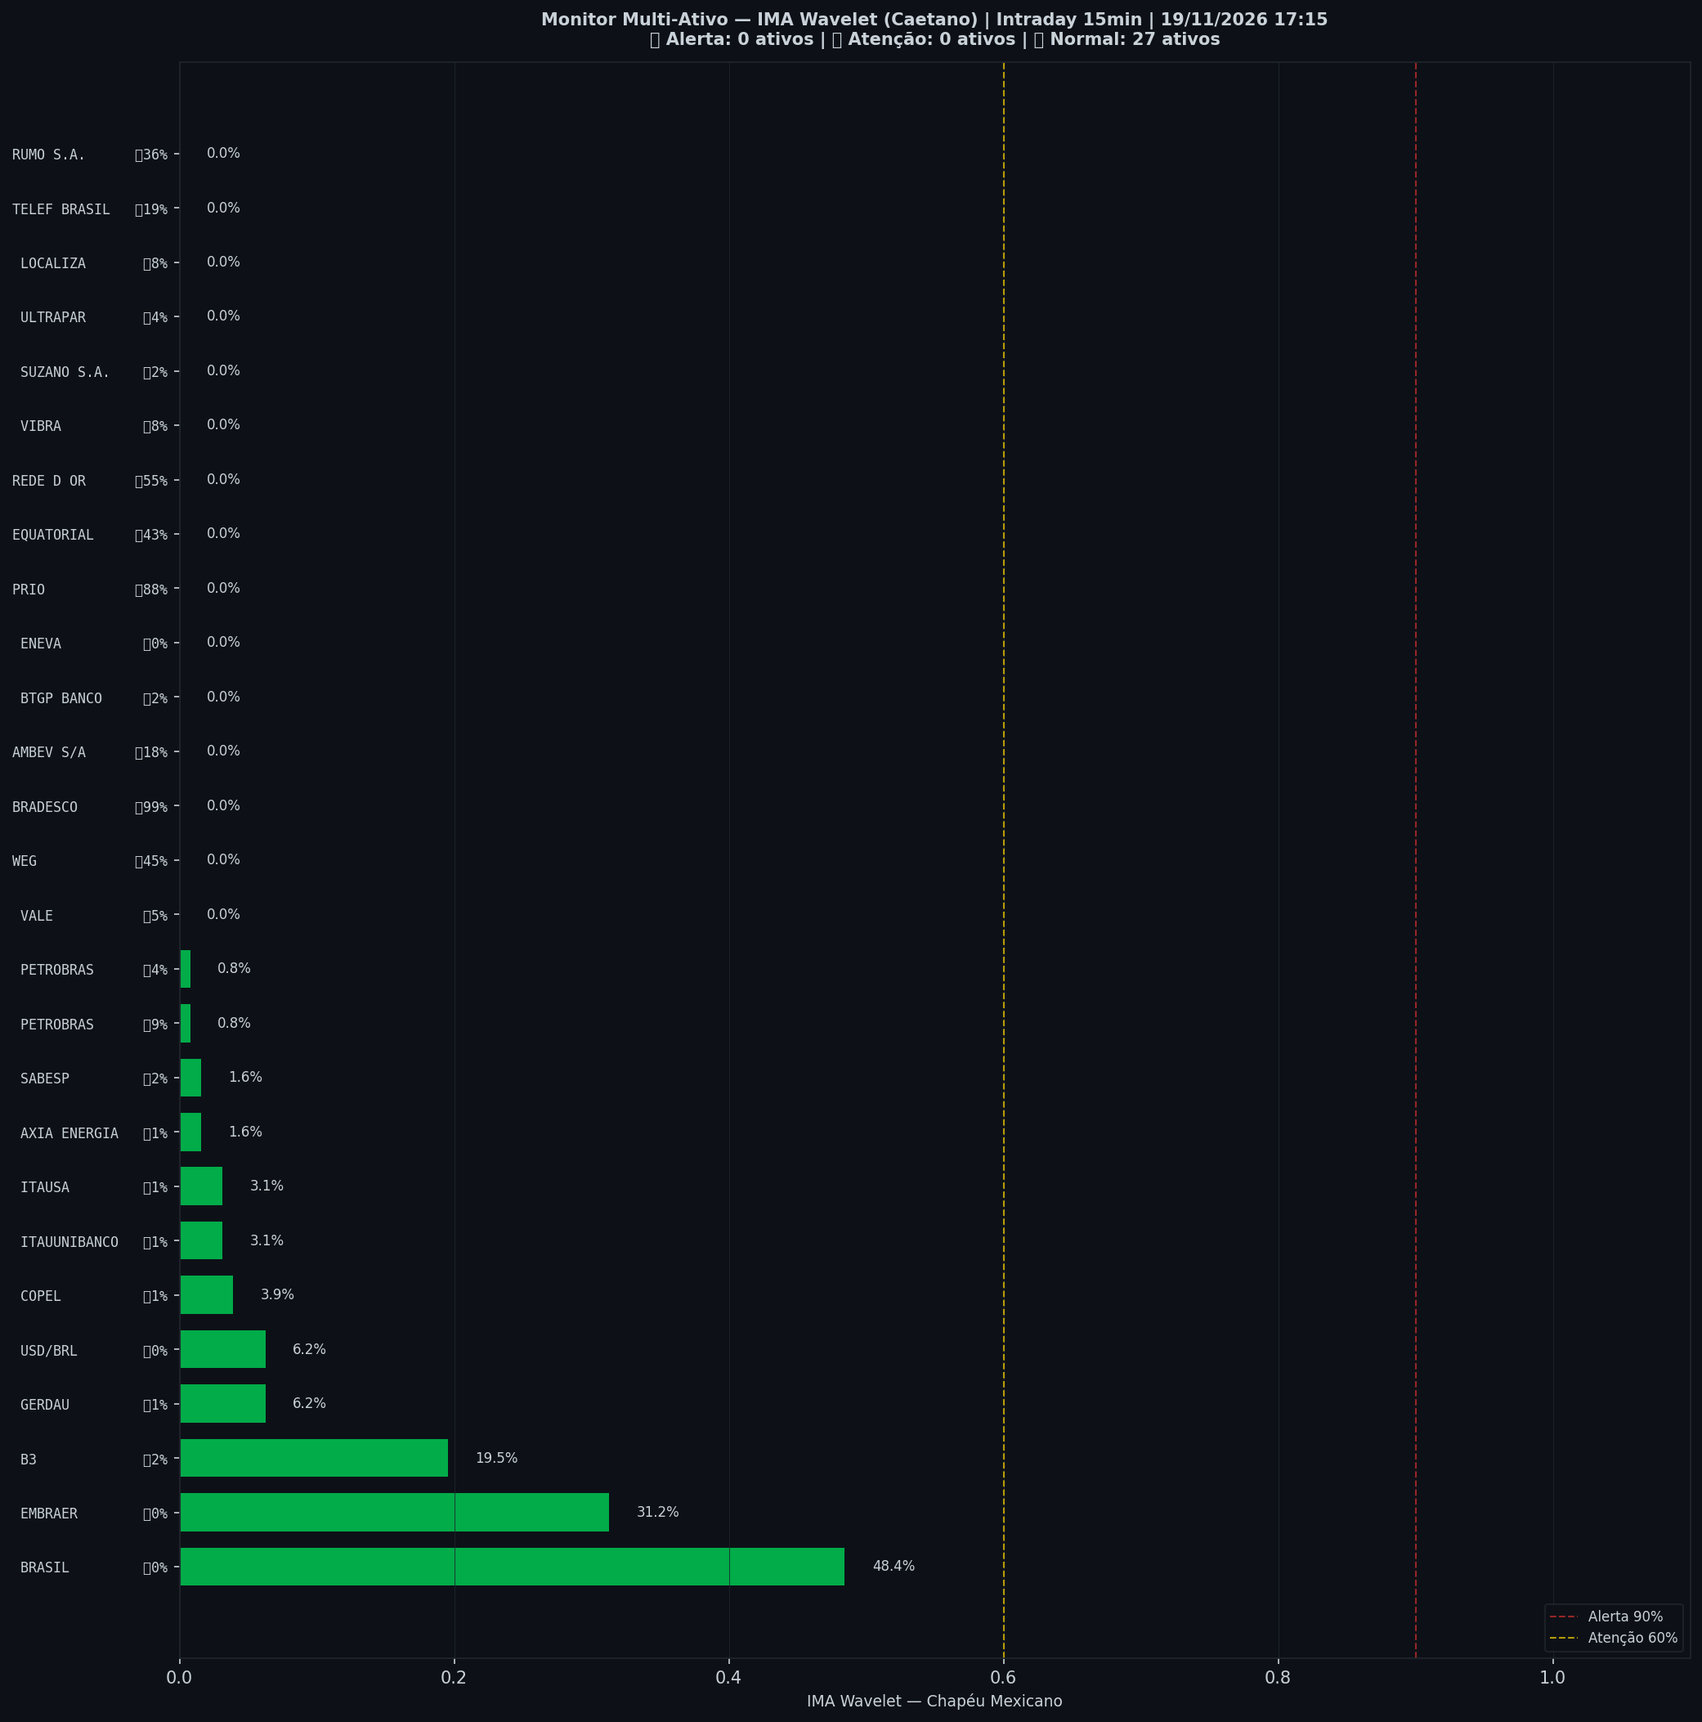
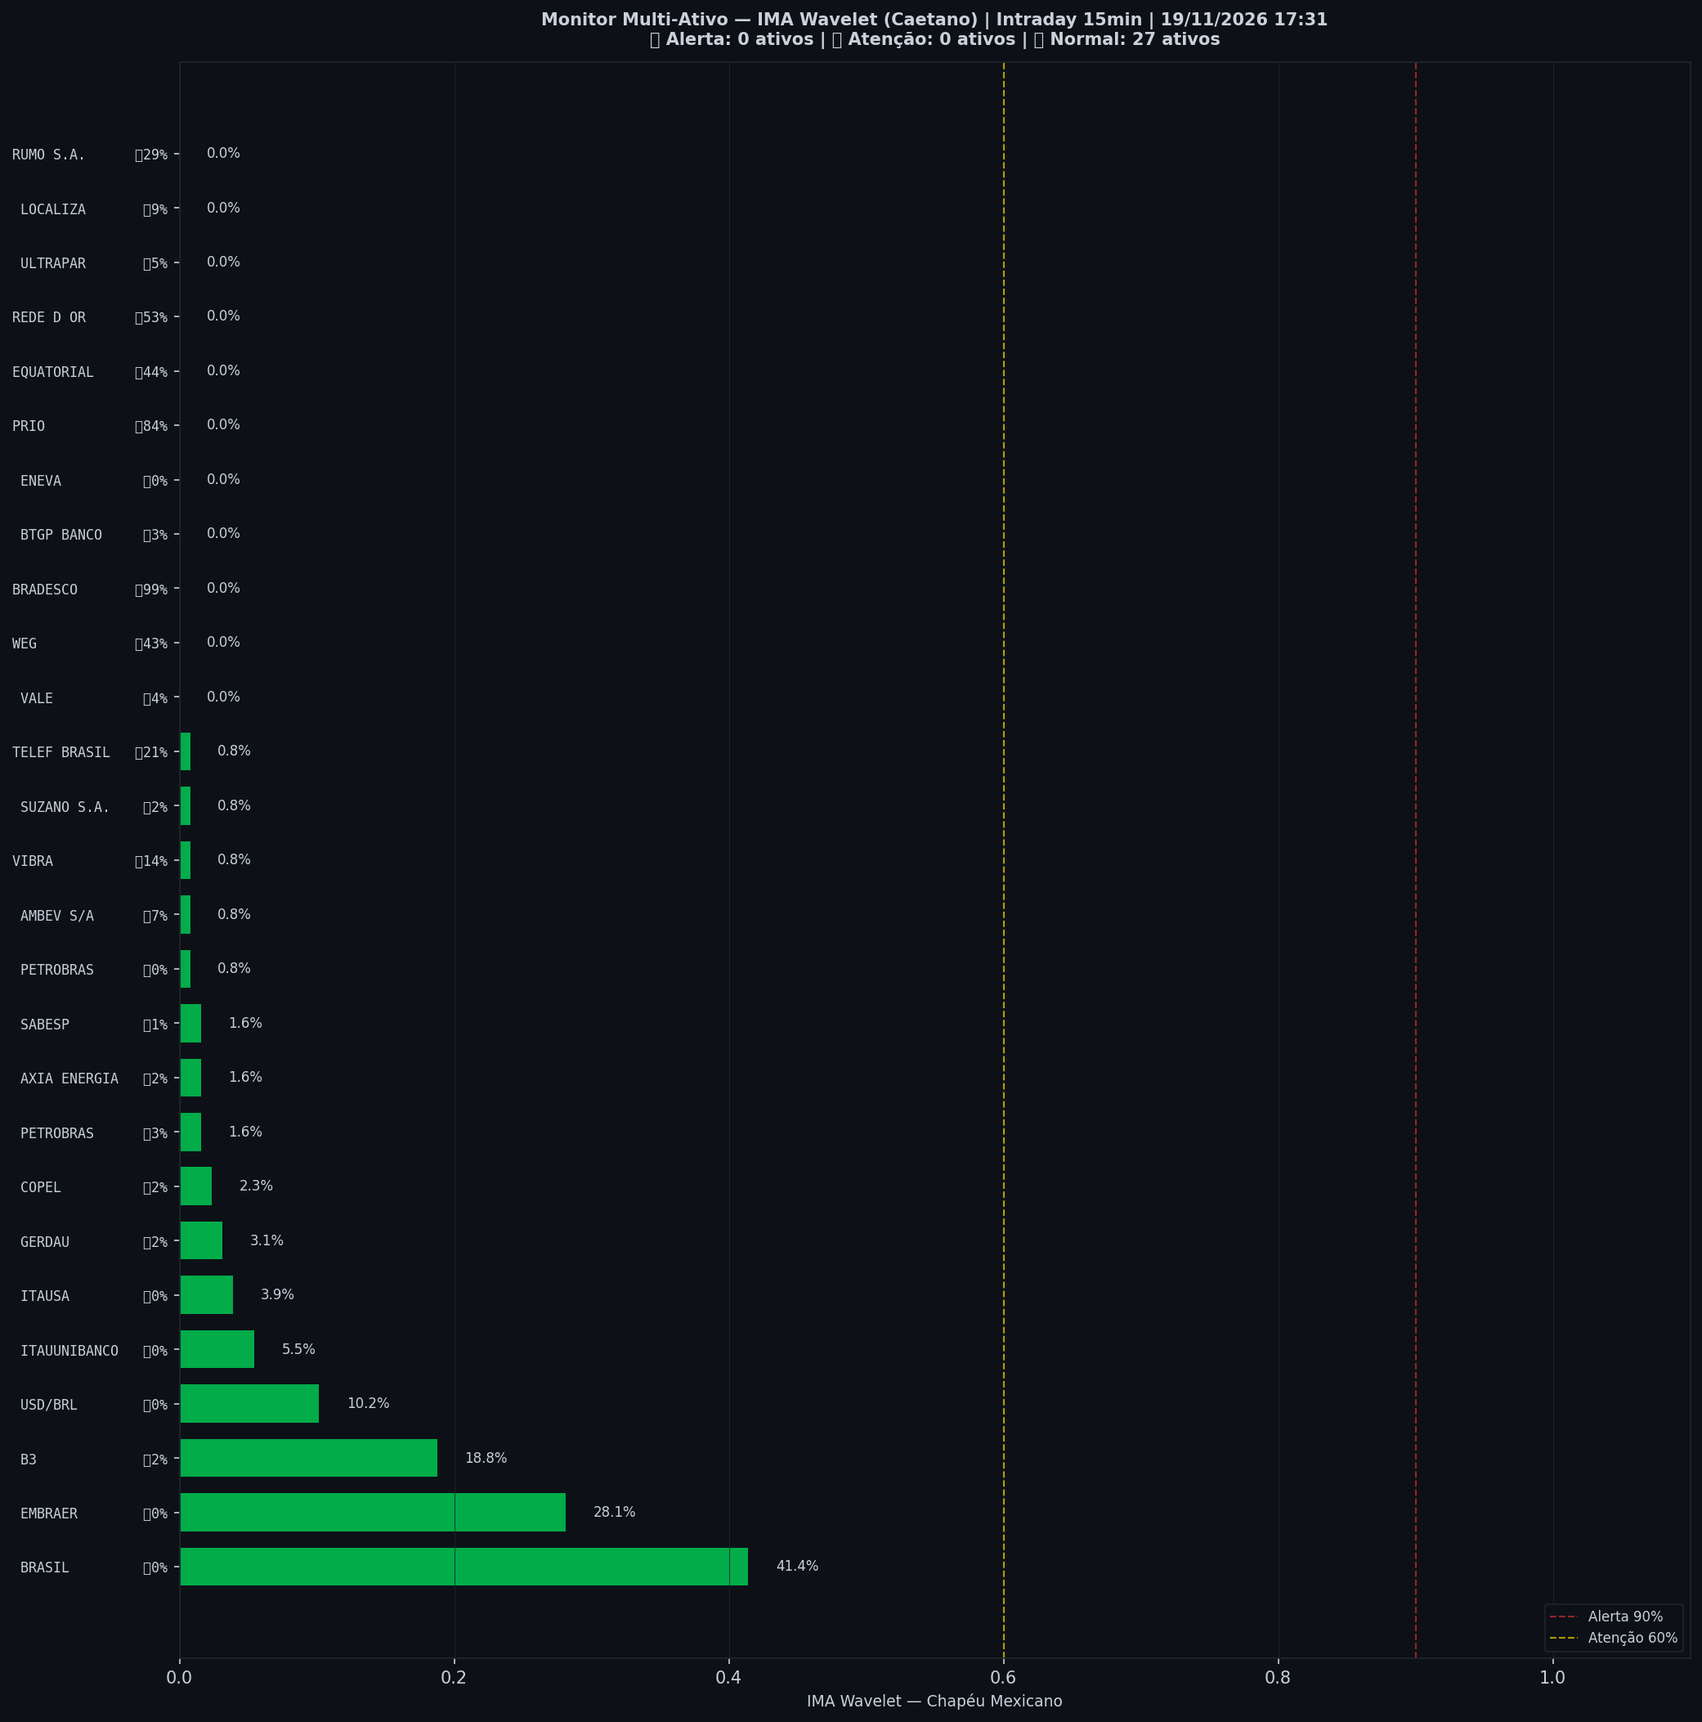
🤖 Auto: Sinal 19/11/2026 17:31

diff --git a/content/intraday/2026-11-19.md b/content/intraday/2026-11-19.md
@@ -1,13 +1,13 @@
 ---
-title: "🟢 Intraday 19/11/2026 17:00 BRT — VERDE"
+title: "🟢 Intraday 19/11/2026 17:15 BRT — VERDE"
 date: 2026-11-19
 tags: [intraday]
 ---
 
-> [!success] Onde o mercado está agora (19/11 17:00, candles de 15 min): **🟢 Calmo**
-> `Pânico ◀─────────●───────────▶ Euforia`
+> [!success] Onde o mercado está agora (19/11 17:15, candles de 15 min): **🟢 Calmo**
+> `Pânico ◀──────────●──────────▶ Euforia`
 >
-> **O Ibovespa cai 0,87% agora, aos 166.078 pontos.** O preço está dentro da sua faixa normal, sem excesso para cima nem para baixo.
+> **O Ibovespa cai 0,82% agora, aos 166.169 pontos.** O preço está dentro da sua faixa normal, sem excesso para cima nem para baixo.
 > No gráfico diário: 🌱 Fundo se desfazendo.
 >
 > *Leitura educacional baseada em 26 anos de dados. Não é recomendação de investimento.*
@@ -20,7 +20,7 @@ tags: [intraday]
 > | 📍 **Sinais** | hoje: nenhum sinal | [abrir](sinais-topo-fundo/) |
 > | 🧪 **Placar ao vivo** | 1 operação(ões), 0 com lucro, soma -0,8% | [abrir](operacoes/) |
 
-> [!success] IMA Intraday · 15 min (19/11 17:00): 🟢 **VERDE** — Risco 1% · ▲ +1 p.p. vs leitura anterior
+> [!success] IMA Intraday · 15 min (19/11 17:15): 🟢 **VERDE** — Risco 2% · ▲ +1 p.p. vs leitura anterior
 > `░░░░░░░░░░░░░░░░░░░░`
 > Preço na faixa normal em torno da tendência.
 
@@ -32,13 +32,13 @@ tags: [intraday]
 >
 > *Leitura educacional baseada em 26 anos de dados, não recomendação. [Como usar](../metodologia/crise#3-como-usar-na-prática).*
 
-| Indicador — IMA Intraday · 15 min (19/11 17:00) | Valor |
+| Indicador — IMA Intraday · 15 min (19/11 17:15) | Valor |
 |---|---|
-| 🔴 ζ Topo — preço esticado acima da tendência | **1%** |
-| 🔵 ζ Fundo — preço esticado abaixo da tendência | 11% |
+| 🔴 ζ Topo — preço esticado acima da tendência | **2%** |
+| 🔵 ζ Fundo — preço esticado abaixo da tendência | 6% |
 | 🫧 LPPL bolha — alta super-exponencial (risco de crash) | 0% |
 | 🫧 LPPL antibolha — queda super-exponencial (risco de repique) | 0% |
-| 📊 Ibovespa | 166.078 pts |
+| 📊 Ibovespa | 166.169 pts |
 
 ![Gráfico do sinal](../graficos/sinal_intraday.png)
 
@@ -46,6 +46,7 @@ tags: [intraday]
 
 | Data | Zona | Evento | Risco | ζ Topo | ζ Fundo | LPPL |
 |---|---|---|---|---|---|---|
+| 2026-11-19 17:15 | 🟢 VERDE |  | **2%** | 2% | 6% | 0% |
 | 2026-11-19 17:00 | 🟢 VERDE |  | **1%** | 1% | 11% | 0% |
 | 2026-11-19 16:45 | 🟢 VERDE |  | **0%** | 0% | 12% | 0% |
 | 2026-11-19 16:30 | 🟢 VERDE |  | **0%** | 0% | 14% | 0% |
@@ -75,52 +76,51 @@ tags: [intraday]
 | 2026-11-19 10:30 | 🟢 VERDE |  | **2%** | 2% | 25% | 0% |
 | 2026-11-19 10:15 | 🟢 VERDE |  | **0%** | 0% | 27% | 0% |
 | 2026-11-19 10:00 | 🟢 VERDE |  | **1%** | 1% | 30% | 0% |
-| 2026-11-18 18:00 | 🟢 VERDE |  | **0%** | 0% | 30% | 0% |
 
 <small>Destaques: 🟡 ≥ 60% · 🔴 ≥ 90% (Risco e ζ Topo) · 🔵 ≥ 60% · 🔪 ≥ 90% (ζ Fundo) · 🫧 ≥ 30% · 🫧🔴 ≥ 50% (LPPL)</small>
 
 ## Monitor Multi-Ativo
 
-**0% dos ativos em tensão** (0🔴 1🟡) · **2 com ζ Fundo alto** — quanto mais ativos disparam juntos, mais confiável o sinal.
+**0% dos ativos em tensão** (0🔴 0🟡) · **2 com ζ Fundo alto** — quanto mais ativos disparam juntos, mais confiável o sinal.
 
 > [!danger] Em destaque no multi-ativo
-> 🔪 **BRADESCO** ζ Fundo 99% · 🔵 **PRIO** ζ Fundo 88%
+> 🔪 **BRADESCO** ζ Fundo 99% · 🔵 **PRIO** ζ Fundo 84%
 
 | Zona | Ativo | Setor | ζ Topo | ζ Fundo |
 |---|---|---|---|---|
 | 🟢 | **BRADESCO** | Financeiro | 0.0% | 🔪 **99.2%** |
-| 🟢 | **PRIO** | Petróleo | 0.0% | 🔵 **88.3%** |
-| 🟢 | **REDE D OR** | Saúde | 0.0% | 55.5% |
-| 🟡 | **BRASIL** | Financeiro | 48.4% | 0.0% |
-| 🟢 | **WEG** | Industrial | 0.0% | 45.3% |
-| 🟢 | **EQUATORIAL** | Energia | 0.0% | 43.0% |
-| 🟢 | **RUMO S.A.** | Outros | 0.0% | 35.9% |
-| 🟢 | **EMBRAER** | Outros | 31.2% | 0.0% |
-| 🟢 | **B3** | Financeiro | 19.5% | 1.6% |
-| 🟢 | **TELEF BRASIL** | Outros | 0.0% | 18.8% |
-| 🟢 | **AMBEV S/A** | Consumo | 0.0% | 18.0% |
-| 🟢 | **PETROBRAS** | Petróleo | 0.8% | 9.4% |
-| 🟢 | **VIBRA** | Energia | 0.0% | 7.8% |
-| 🟢 | **LOCALIZA** | Aluguel | 0.0% | 7.8% |
-| 🟢 | **GERDAU** | Siderurgia | 6.2% | 0.8% |
-| 🟢 | **USD/BRL** | Câmbio | 6.2% | 0.0% |
-| 🟢 | **VALE** | Mineração | 0.0% | 4.7% |
-| 🟢 | **PETROBRAS** | Petróleo | 0.8% | 3.9% |
-| 🟢 | **COPEL** | Energia | 3.9% | 0.8% |
-| 🟢 | **ULTRAPAR** | Outros | 0.0% | 3.9% |
-| 🟢 | **ITAUUNIBANCO** | Financeiro | 3.1% | 0.8% |
-| 🟢 | **ITAUSA** | Financeiro | 3.1% | 0.8% |
-| 🟢 | **BTGP BANCO** | Financeiro | 0.0% | 2.3% |
-| 🟢 | **SUZANO S.A.** | Papel/Celulose | 0.0% | 2.3% |
-| 🟢 | **AXIA ENERGIA** | Energia | 1.6% | 0.8% |
-| 🟢 | **SABESP** | Saneamento | 1.6% | 1.6% |
+| 🟢 | **PRIO** | Petróleo | 0.0% | 🔵 **83.6%** |
+| 🟢 | **REDE D OR** | Saúde | 0.0% | 53.1% |
+| 🟢 | **EQUATORIAL** | Energia | 0.0% | 43.8% |
+| 🟢 | **WEG** | Industrial | 0.0% | 43.0% |
+| 🟢 | **BRASIL** | Financeiro | 41.4% | 0.0% |
+| 🟢 | **RUMO S.A.** | Outros | 0.0% | 28.9% |
+| 🟢 | **EMBRAER** | Outros | 28.1% | 0.0% |
+| 🟢 | **TELEF BRASIL** | Outros | 0.8% | 21.1% |
+| 🟢 | **B3** | Financeiro | 18.8% | 1.6% |
+| 🟢 | **VIBRA** | Energia | 0.8% | 14.1% |
+| 🟢 | **USD/BRL** | Câmbio | 10.2% | 0.0% |
+| 🟢 | **LOCALIZA** | Aluguel | 0.0% | 8.6% |
+| 🟢 | **AMBEV S/A** | Consumo | 0.8% | 7.0% |
+| 🟢 | **ITAUUNIBANCO** | Financeiro | 5.5% | 0.0% |
+| 🟢 | **ULTRAPAR** | Outros | 0.0% | 4.7% |
+| 🟢 | **VALE** | Mineração | 0.0% | 3.9% |
+| 🟢 | **ITAUSA** | Financeiro | 3.9% | 0.0% |
+| 🟢 | **PETROBRAS** | Petróleo | 1.6% | 3.1% |
+| 🟢 | **BTGP BANCO** | Financeiro | 0.0% | 3.1% |
+| 🟢 | **GERDAU** | Siderurgia | 3.1% | 2.3% |
+| 🟢 | **AXIA ENERGIA** | Energia | 1.6% | 2.3% |
+| 🟢 | **COPEL** | Energia | 2.3% | 2.3% |
+| 🟢 | **SUZANO S.A.** | Papel/Celulose | 0.8% | 2.3% |
+| 🟢 | **SABESP** | Saneamento | 1.6% | 0.8% |
+| 🟢 | **PETROBRAS** | Petróleo | 0.8% | 0.0% |
 | 🟢 | **ENEVA** | Energia | 0.0% | 0.0% |
 
 <small>Destaques: 🟡 ≥ 60% · 🔴 ≥ 90% (Risco e ζ Topo) · 🔵 ≥ 60% · 🔪 ≥ 90% (ζ Fundo) · 🫧 ≥ 30% · 🫧🔴 ≥ 50% (LPPL)</small>
 
 ![Monitor multi-ativo](../graficos/multi_intraday.png)
 
-*Página atualizada em 19/11/2026 17:15 BRT (leitura da barra de 2026-11-19 17:00 BRT).*
+*Página atualizada em 19/11/2026 17:31 BRT (leitura da barra de 2026-11-19 17:15 BRT).*
 
 > [!warning] O que este indicador não faz
 > Medido em 5 anos de Ibovespa, o ζ **não antecipa** topos nem fundos: a capacidade de separar o que sobe do que cai ficou em 0,49–0,52, e 0,50 é moeda jogada ao ar. Ele descreve o estado de agora; não é aviso do que vem. As zonas verde/amarelo/vermelho continuam na página como descrição desse estado — **não as use como sinal de entrada ou saída**.

diff --git a/content/index.md b/content/index.md
@@ -6,12 +6,12 @@ tags: [home]
 
 **As ondas do mercado, explicadas.** Leitura do Ibovespa com estatística de 26 anos, baseada no trabalho de pesquisadores e traders reconhecidos e adaptada por Jarbas Daniel da Costa.
 
-*Última atualização: 19/11/2026 17:15 BRT · Intraday 15min*
+*Última atualização: 19/11/2026 17:31 BRT · Intraday 15min*
 
-> [!success] Onde o mercado está agora (19/11 17:00, candles de 15 min): **🟢 Calmo**
-> `Pânico ◀─────────●───────────▶ Euforia`
+> [!success] Onde o mercado está agora (19/11 17:15, candles de 15 min): **🟢 Calmo**
+> `Pânico ◀──────────●──────────▶ Euforia`
 >
-> **O Ibovespa cai 0,87% agora, aos 166.078 pontos.** O preço está dentro da sua faixa normal, sem excesso para cima nem para baixo.
+> **O Ibovespa cai 0,82% agora, aos 166.169 pontos.** O preço está dentro da sua faixa normal, sem excesso para cima nem para baixo.
 > No gráfico diário: 🌱 Fundo se desfazendo.
 >
 > *Leitura educacional baseada em 26 anos de dados. Não é recomendação de investimento.*
@@ -20,7 +20,7 @@ tags: [home]
 
 | Módulo | Agora | |
 |---|---|---|
-| 🌊 **Sinal IMA** | 🟢 VERDE · 🟢 calmo · ζ Topo 1% | [relatório](intraday/2026-11-19) |
+| 🌊 **Sinal IMA** | 🟢 VERDE · 🟢 calmo · ζ Topo 2% | [relatório](intraday/2026-11-19) |
 | 📈 **Tendência MME9** | Diário — fora<br>Semanal — fora | [abrir](operacoes/tendencia) |
 | 🎯 **Entradas do método** | ⏳ aguardando: Diário · Semáforo N3 após ζ Fundo | [abrir](operacoes/entradas) |
 | 📍 **Sinais** | hoje: nenhum sinal | [abrir](sinais-topo-fundo/) |
@@ -44,27 +44,26 @@ tags: [home]
 > *Leitura educacional baseada em 26 anos de dados, não recomendação. [Como usar](metodologia/crise#3-como-usar-na-prática).*
 
 > [!info]- 🌊 Detalhes do Sinal IMA (indicadores e últimos 7 pregões)
-> > [!success] IMA Intraday · 15 min (19/11 17:00): 🟢 **VERDE** — Risco 1% · ▲ +1 p.p. vs leitura anterior
+> > [!success] IMA Intraday · 15 min (19/11 17:15): 🟢 **VERDE** — Risco 2% · ▲ +1 p.p. vs leitura anterior
 > > `░░░░░░░░░░░░░░░░░░░░`
 > > Preço na faixa normal em torno da tendência.
 >
 >
-> | Indicador — IMA Intraday · 15 min (19/11 17:00) | Valor |
+> | Indicador — IMA Intraday · 15 min (19/11 17:15) | Valor |
 > |---|---|
-> | 🔴 ζ Topo — preço esticado acima da tendência | **1%** |
-> | 🔵 ζ Fundo — preço esticado abaixo da tendência | 11% |
+> | 🔴 ζ Topo — preço esticado acima da tendência | **2%** |
+> | 🔵 ζ Fundo — preço esticado abaixo da tendência | 6% |
 > | 🫧 LPPL bolha — alta super-exponencial (risco de crash) | 0% |
 > | 🫧 LPPL antibolha — queda super-exponencial (risco de repique) | 0% |
-> | 📊 Ibovespa | 166.078 pts |
+> | 📊 Ibovespa | 166.169 pts |
 >
-> **Multi-ativo:** 0% em tensão (0🔴 1🟡 de 27 ativos)
+> **Multi-ativo:** 0% em tensão (0🔴 0🟡 de 27 ativos)
 >
 > **Últimos 7 pregões**
 >
 > | Data | Zona | Risco | ζ Topo | ζ Fundo | LPPL |
 > |---|---|---|---|---|---|
-> | [19/11/2026](intraday/2026-11-19) | 🟢 VERDE | **1%** | 1% | 11% | 0% |
-> | [18/11/2026](intraday/2026-11-18) | 🟢 VERDE | **0%** | 0% | 30% | 0% |
+> | [19/11/2026](intraday/2026-11-19) | 🟢 VERDE | **2%** | 2% | 6% | 0% |
 >
 > <small>Destaques: 🟡 ≥ 60% · 🔴 ≥ 90% (Risco e ζ Topo) · 🔵 ≥ 60% · 🔪 ≥ 90% (ζ Fundo) · 🫧 ≥ 30% · 🫧🔴 ≥ 50% (LPPL)</small>
 >

diff --git a/content/operacoes/entradas.md b/content/operacoes/entradas.md
@@ -31,7 +31,7 @@ description: "Compra depois de um sinal de fundo: Nadaraya no diário, semáforo
 > | Diário · Semáforo N3 após ζ Fundo | 07/07/26 a 172.021 | 10/08/26 a 172.021 | **+0,0%** | stop no preço de entrada |
 > | H4 · Semáforo N2 | 12/06/26 14h a 171.134 | 15/06/26 14h a 171.134 | **+0,0%** | stop no preço de entrada |
 >
-> <small>Atualizado 18/11 19:01 · checado no pregão às 17:15. Nota: ✅ passou no teste fora da amostra (walk-forward 2008–2026) · 🧪 em teste (H4, com aviso no Telegram) ou em observação (ζ, sem aviso) · 🧪 na tabela = operação do teste ao vivo.</small>
+> <small>Atualizado 18/11 19:01 · checado no pregão às 17:30. Nota: ✅ passou no teste fora da amostra (walk-forward 2008–2026) · 🧪 em teste (H4, com aviso no Telegram) ou em observação (ζ, sem aviso) · 🧪 na tabela = operação do teste ao vivo.</small>
 >
 > *Regras: depois de um sinal de fundo, o Diário entra quando o Nadaraya vira para cima; o Semanal e o H4 entram quando um fundo do semáforo fica fixo. Stop e saída de cada regra na [metodologia](metodologia/regras-de-operacao#entradas-do-método). Nenhuma regra de venda passou no teste. Os números do histórico têm viés de escolha (overfitting); o placar ao vivo é o que vale. Leitura educacional do método, não recomendação.*
 

diff --git a/content/integridade/index.md b/content/integridade/index.md
@@ -5,7 +5,7 @@ description: "O que foi conferido, contra qual fonte e quando — medido na hora
 tags: [integridade]
 ---
 
-*Pregão conferido: **18/11/2026**, com 59 tabelas no acervo · página gerada em 19/11/2026 17:16*
+*Pregão conferido: **18/11/2026**, com 59 tabelas no acervo · página gerada em 19/11/2026 17:31*
 
 O pregão conferido é o último **fechado e arquivado inteiro**, não o de hoje: enquanto o dia corre, só algumas tabelas estão gravadas, e conferir um dia pela metade produziria alarme falso.
 
@@ -22,7 +22,7 @@ Esta página não declara que o site está correto. Ela **mede** e escreve o res
 | Tabelas com conteúdo fora da curva | **1** — veja a seção 1 |
 | Páginas publicadas | 358 |
 | Conferências cruzadas das páginas | 71 certas, nenhuma divergência |
-| Página escrita mais recentemente | 19/11 17:16 |
+| Página escrita mais recentemente | 19/11 17:31 |
 | Páginas sem data no cabeçalho | 9 — cegas para a conferência de dado |
 
 ## 1 · Acervo do boletim diário

diff --git a/content/historico.md b/content/historico.md
@@ -5,7 +5,7 @@ tags: [historico]
 
 # 📜 Histórico de leituras (v5)
 
-**2.510 leituras** desde 2026-07-03. Na página ficam os últimos 3 dias leitura por leitura e o resumo de cada dia anterior; o registro inteiro está no arquivo para baixar.
+**2.511 leituras** desde 2026-07-03. Na página ficam os últimos 3 dias leitura por leitura e o resumo de cada dia anterior; o registro inteiro está no arquivo para baixar.
 
 [**Baixar o histórico completo**](historico-completo.csv) (110 KB · abre no Excel e no LibreOffice)
 
@@ -16,6 +16,7 @@ tags: [historico]
 
 | Data | Modo | Zona | Risco | IMA | LPPL |
 |---|---|---|---|---|---|
+| 2026-11-19 17:15 | intraday | 🟢 VERDE | 2% | 2% | 0% |
 | 2026-11-19 17:00 | intraday | 🟢 VERDE | 1% | 1% | 0% |
 | 2026-11-19 16:45 | intraday | 🟢 VERDE | 0% | 0% | 0% |
 | 2026-11-19 16:30 | intraday | 🟢 VERDE | 0% | 0% | 0% |

diff --git a/content/operacoes/ranking.md b/content/operacoes/ranking.md
@@ -5,7 +5,7 @@ tags: [operacoes]
 description: "As regras de compra do site ordenadas pelo resultado, com treino, teste e placar ao vivo"
 ---
 
-*Atualizado 19/11/2026 17:16 · histórico simulado com as regras congeladas em 23/10/2026 + placar ao vivo.*
+*Atualizado 19/11/2026 17:31 · histórico simulado com as regras congeladas em 23/10/2026 + placar ao vivo.*
 
 As regras de compra do site, **da que mais rendeu para a que menos rendeu**. O resultado é por operação, no índice à vista, sem custos e sem juros compostos (a soma é só a soma das operações). **Treino** = entradas de 2001 a 2013 e **teste** = 2014 em diante: uma regra só é confiável se ganhou nos dois. O único resultado sem nenhum ajuste ao histórico é o **placar ao vivo**.
 

diff --git a/content/linha-do-tempo/index.md b/content/linha-do-tempo/index.md
@@ -5,7 +5,7 @@ description: "Todo sinal, ordem, stop e aviso do Pêndulo de Mercado, do mais re
 tags: [eventos]
 ---
 
-*Atualizada 19/11/2026 17:16 BRT · a cada 15 min no pregão e às 19h.*
+*Atualizada 19/11/2026 17:31 BRT · a cada 15 min no pregão e às 19h.*
 
 Tudo o que o sistema fez ou detectou, **do mais recente para o mais antigo**: sinais de topo e fundo, ordens de compra e de venda armadas, compras, vendas, stops, avisos de 🚨 preço perto do nível e mudanças do Sinal IMA. Os **últimos 7 dias** ficam abertos; o resto, por **ano → mês → dia**.
 

diff --git a/content/avisos/index.md b/content/avisos/index.md
@@ -2,7 +2,7 @@
 title: "⚠ Avisos: o que saber antes de usar os números"
 ---
 
-*Gerado em 19/11/2026 17:16*
+*Gerado em 19/11/2026 17:31*
 
 Este site publica muitos números, e cada um tem uma limitação que importa na hora de
 decidir. As limitações estão escritas nas próprias páginas, mas quem chega direto numa
